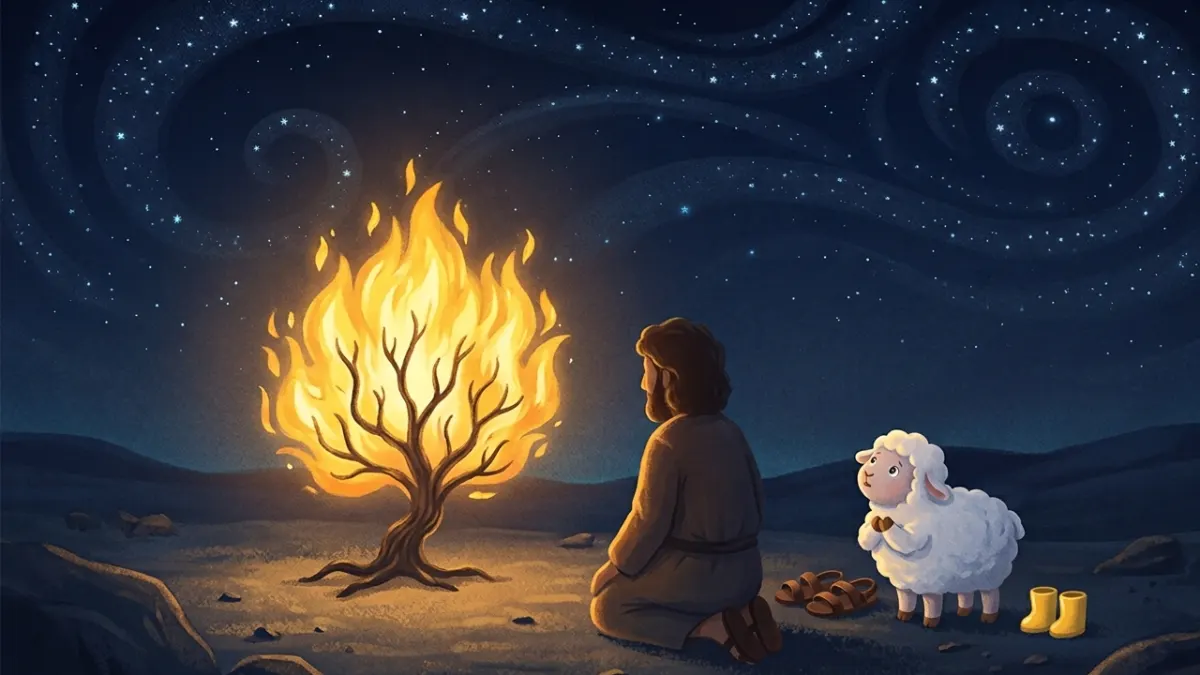
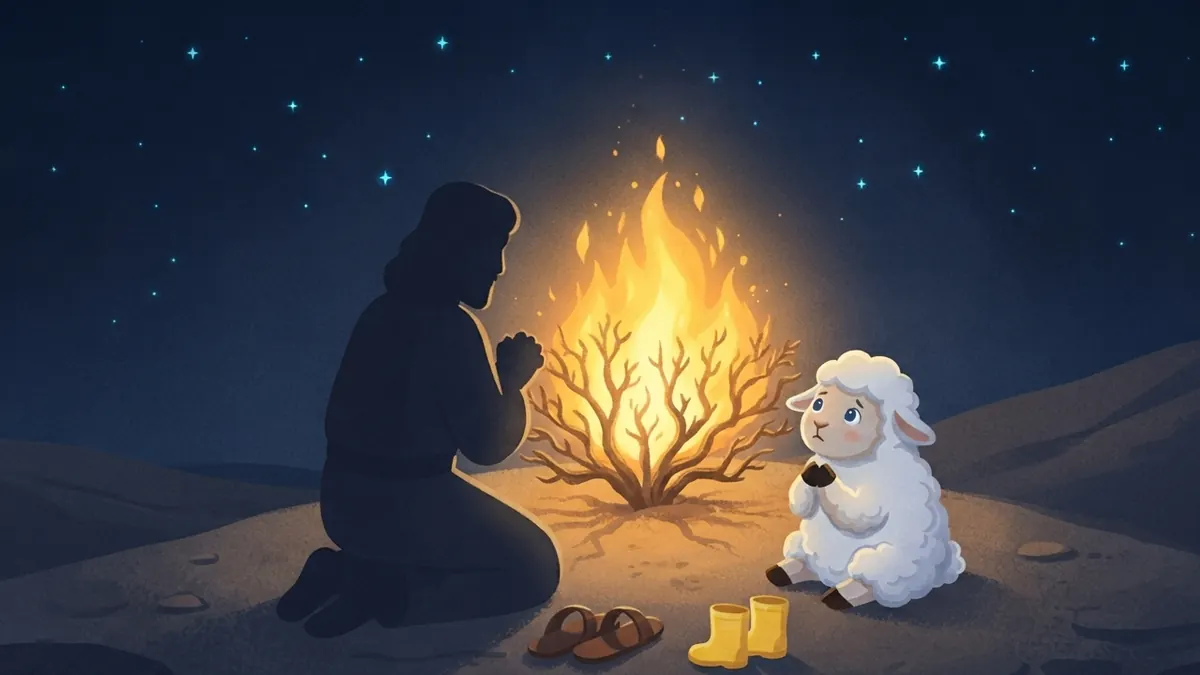
초기설정성경초보자이미지완료

diff --git a/frontend/docs/story-image-prompts.md b/frontend/docs/story-image-prompts.md
@@ -143,10 +143,12 @@ twirling once, delighted.
 **09. burning-bush — 불타는 떨기나무**
 ```
 A lone desert bush blazes with brilliant golden flame yet is not consumed. A shepherd
-kneels before it in silhouette, his sandals set aside on the holy ground. The sheep
-stands barefoot at attention beside him, staring at the flame in awe — next to the
-shepherd's sandals it has neatly placed its own footwear: exactly one pair of tiny
-yellow rain boots, two matching boots side by side, nothing more.
+kneels before it in silhouette, his sandals set aside on the holy ground. Beside him the
+sheep sits upright on its haunches like a begging puppy — hind legs folded beneath its
+round woolly body, and its only two front hooves pressed together at its chest in awe as
+it gazes into the flame. It is a real little lamb carried on just four short stubby legs
+in total. Next to the shepherd's sandals it has neatly placed its own footwear: exactly
+one pair of tiny yellow rain boots, two matching boots side by side, nothing more.
 ```
 
 **10. exodus — 바다가 갈라지다**
